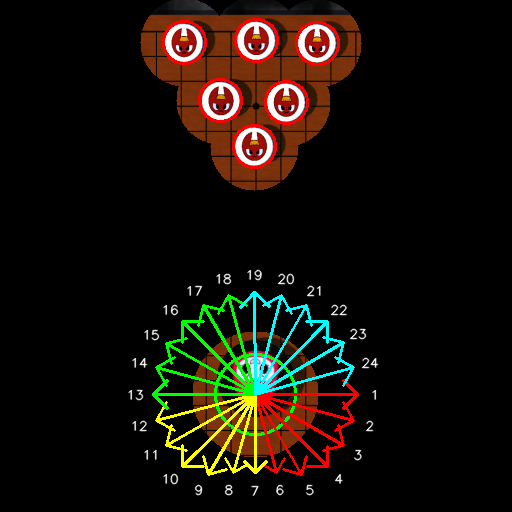
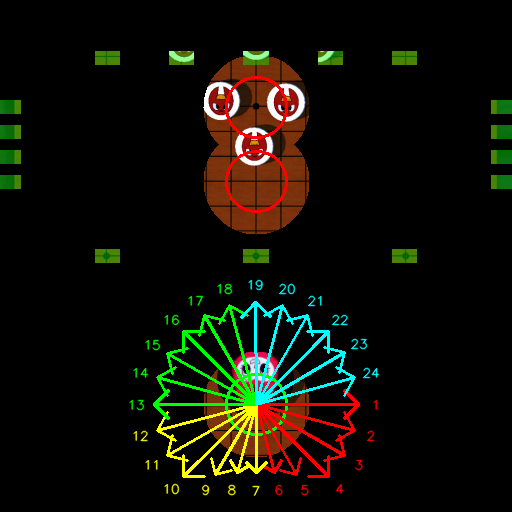
image_generator.py 색상까지 반영

diff --git a/image_generator.py b/image_generator.py
@@ -1,211 +1,114 @@
 import cv2
-
 import numpy as np
-
 import json
-
 import math
 
 
 
-def process_alkkagi_frame_v5(image_path, json_data, resolution):
+def process_alkkagi_frame_v5(image_src, json_data, resolution):
 
     # 1. 이미지 로드 및 리사이즈
-
-    src = cv2.imread(image_path)
-
-    if src is None:
-
-        print(f"Error: 이미지를 불러올 수 없습니다: {image_path}")
-
-        return None
-
-    
-
-    img = cv2.resize(src, (resolution, resolution), interpolation=cv2.INTER_AREA)
-
+    img = cv2.resize(image_src, (resolution, resolution), interpolation=cv2.INTER_AREA)
     img_h, img_w = resolution, resolution
 
-
-
     # 2. JSON 파싱 및 스케일링 설정 (1080 기준)
-
     state = json.loads(json_data)
-
     env = state['data']['environment']
-
     scale = resolution / 1080.0
 
-
-
     # 3. 마스크 레이어 생성 및 돌/벽 영역 확보
-
     mask = np.zeros((img_h, img_w), dtype=np.uint8)
-
     all_stones = env['stones']['my_team'] + env['stones']['enemy_team']
-
     for s in all_stones:
-
         cx, cy = int(s['position']['x'] * scale), int(s['position']['y'] * scale)
-
         r = int(s['radius'] * scale)
-
         padding = int(resolution * 0.05) 
-
         cv2.circle(mask, (cx, cy), r + padding, 255, -1)
 
-
-
     if 'walls' in env and env['walls']:
-
         for wall in env['walls']:
-
             x1, y1 = int(wall['top_left']['x'] * scale), int(wall['top_left']['y'] * scale)
-
             x2, y2 = int(wall['bottom_right']['x'] * scale), int(wall['bottom_right']['y'] * scale)
-
             cv2.rectangle(mask, (x1, y1), (x2, y2), 255, -1)
 
 
 
     # 4. 마스킹 적용
-
     result = img.copy()
-
     result[mask == 0] = 0
 
-
-
     # 5. 시각 효과 설정
-
     thickness = max(1, int(resolution / 256))
-
     font_scale = resolution / 1200.0
 
     # 기본 화살표 길이 설정 (여유가 있을 때의 최대 길이)
-
     base_arrow_len = int(resolution / 5.0) 
 
-
-
     # 6. 내 팀 가이드 (가변 길이 인코딩 적용)
-
     for s in env['stones']['my_team']:
-
         cx, cy = int(s['position']['x'] * scale), int(s['position']['y'] * scale)
-
         r = int(s['radius'] * scale)
-
         cv2.circle(result, (cx, cy), r + 2, (0, 255, 0), thickness)
-
         
-
         for i, deg in enumerate(range(0, 360, 15)):
-
             rad = math.radians(deg)
-
             cos_a, sin_a = math.cos(rad), math.sin(rad)
 
-
-
             # --- [핵심] 경계면까지의 거리 계산 ---
-
             # 각 방향으로 이미지 끝까지의 거리 중 최소값을 찾음
-
             dist_x = (img_w - 25 - cx) / cos_a if cos_a > 0 else (25 - cx) / cos_a if cos_a < 0 else float('inf')
-
             dist_y = (img_h - 25 - cy) / sin_a if sin_a > 0 else (25 - cy) / sin_a if sin_a < 0 else float('inf')
-
             max_possible_dist = min(abs(dist_x), abs(dist_y))
 
-
-
             # 실제 화살표 길이는 base_arrow_len과 경계면 거리 중 작은 값 선택
-
             # 번호가 들어갈 공간(약 20~30px)을 추가로 뺌
-
             safe_arrow_len = min(base_arrow_len, max_possible_dist - 15)
-
             if safe_arrow_len < 10: safe_arrow_len = 10 # 최소 길이 보장
 
-
-
             # 색상 지정 (4분면)
-
-            if 0 <= i < 6: color = (0, 0, 255)
-
-            elif 6 <= i < 12: color = (0, 255, 255)
-
-            elif 12 <= i < 18: color = (0, 255, 0)
-
-            else: color = (255, 255, 0)
-
-
+            if 0 <= i < 6: color = (0, 0, 255)      # 빨강 계열
+            elif 6 <= i < 12: color = (0, 255, 255) # 노랑 계열
+            elif 12 <= i < 18: color = (0, 255, 0)  # 초록 계열
+            else: color = (255, 255, 0)            # 하늘 계열
 
             # 화살표 그리기
-
             ex, ey = int(cx + safe_arrow_len * cos_a), int(cy + safe_arrow_len * sin_a)
-
             cv2.arrowedLine(result, (cx, cy), (ex, ey), color, thickness, tipLength=0.2)
-
             
-
             # 번호 중심 보정 (가변 길이에 맞춰 배치)
-
             text = str(i + 1)
-
             (t_w, t_h), _ = cv2.getTextSize(text, cv2.FONT_HERSHEY_SIMPLEX, font_scale, 1)
-
             
-
             dist_to_text = safe_arrow_len + 18
-
             tx = int(cx + dist_to_text * cos_a - t_w / 2)
-
             ty = int(cy + dist_to_text * sin_a + t_h / 2)
-
             
-
-            cv2.putText(result, text, (tx, ty), cv2.FONT_HERSHEY_SIMPLEX, font_scale, (255, 255, 255), 1, cv2.LINE_AA)
+            # [수정 사항] (255, 255, 255) 대신 위에서 정의한 color 변수 사용
+            # 가독성을 위해 두께를 thickness에 맞춰 조정 가능
+            cv2.putText(result, text, (tx, ty), cv2.FONT_HERSHEY_SIMPLEX, font_scale, color, max(1, thickness//2), cv2.LINE_AA)
 
 
 
     # 7. 상대 팀 및 벽 하이라이트 (생략 가능, 이전 코드와 동일)
-
     for s in env['stones']['enemy_team']:
-
         cx, cy = int(s['position']['x'] * scale), int(s['position']['y'] * scale)
-
         cv2.circle(result, (cx, cy), int(s['radius'] * scale) + 2, (0, 0, 255), thickness)
 
-
-
     if 'walls' in env and env['walls']:
-
         overlay = result.copy()
-
         for wall in env['walls']:
-
             x1, y1 = int(wall['top_left']['x'] * scale), int(wall['top_left']['y'] * scale)
-
             x2, y2 = int(wall['bottom_right']['x'] * scale), int(wall['bottom_right']['y'] * scale)
-
             cv2.rectangle(overlay, (x1, y1), (x2, y2), (0, 255, 0), -1)
-
         cv2.addWeighted(overlay, 0.4, result, 0.6, 0, result)
 
-
-
     cv2.imwrite(f"alkkagi_v5_clamped_{resolution}.png", result)
-
     return result
 
 
 
-game_state_data = '{"time": "2026-01-13T16:54:35.740358", "sid": "W7l4KjYwvQniq0i_AAAH", "event": "state", "data": {"elapse": 0.0, "environment": {"board_boundary": {"bottom_right": {"x": 1050.0, "y": 1050.0}, "top_left": {"x": 31.0, "y": 31.0}}, "stones": {"enemy_team": [{"id": "BP_Stone_AKG6", "position": {"x": 537.0, "y": 309.0, "z": 0.0}, "radius": 41.0}, {"id": "BP_Stone_AKG8", "position": {"x": 466.0, "y": 213.0, "z": 0.0}, "radius": 41.0}, {"id": "BP_Stone_AKG9", "position": {"x": 604.0, "y": 216.0, "z": 0.0}, "radius": 41.0}, {"id": "BP_Stone_AKG10", "position": {"x": 389.0, "y": 90.0, "z": 0.0}, "radius": 41.0}, {"id": "BP_Stone_AKG11", "position": {"x": 669.0, "y": 91.0, "z": 0.0}, "radius": 41.0}, {"id": "BP_Stone_AKG12", "position": {"x": 541.0, "y": 86.0, "z": 0.0}, "radius": 41.0}], "my_team": [{"id": "BP_Stone_AKG7", "position": {"x": 539.0, "y": 833.0, "z": 0.0}, "radius": 82.0}]}, "walls": []}, "frame": 0.0, "game_over": false, "my_turn": true, "turn_count": 2.0}}'
-
-
+game_state_data = open("game_state2.txt", "r", encoding="utf-8").read()
+src = cv2.imread("/home/woosci/test1/Alkkagi/image_data/real_stage/real_stage_2.png")  
 
 # --- 사용 예시 ---
-
-output = process_alkkagi_frame_v5("/home/woosci/test1/Alkkagi/image_data/real_stage/real_stage_2.png", game_state_data, 512)
+output = process_alkkagi_frame_v5(src, game_state_data, 512)
